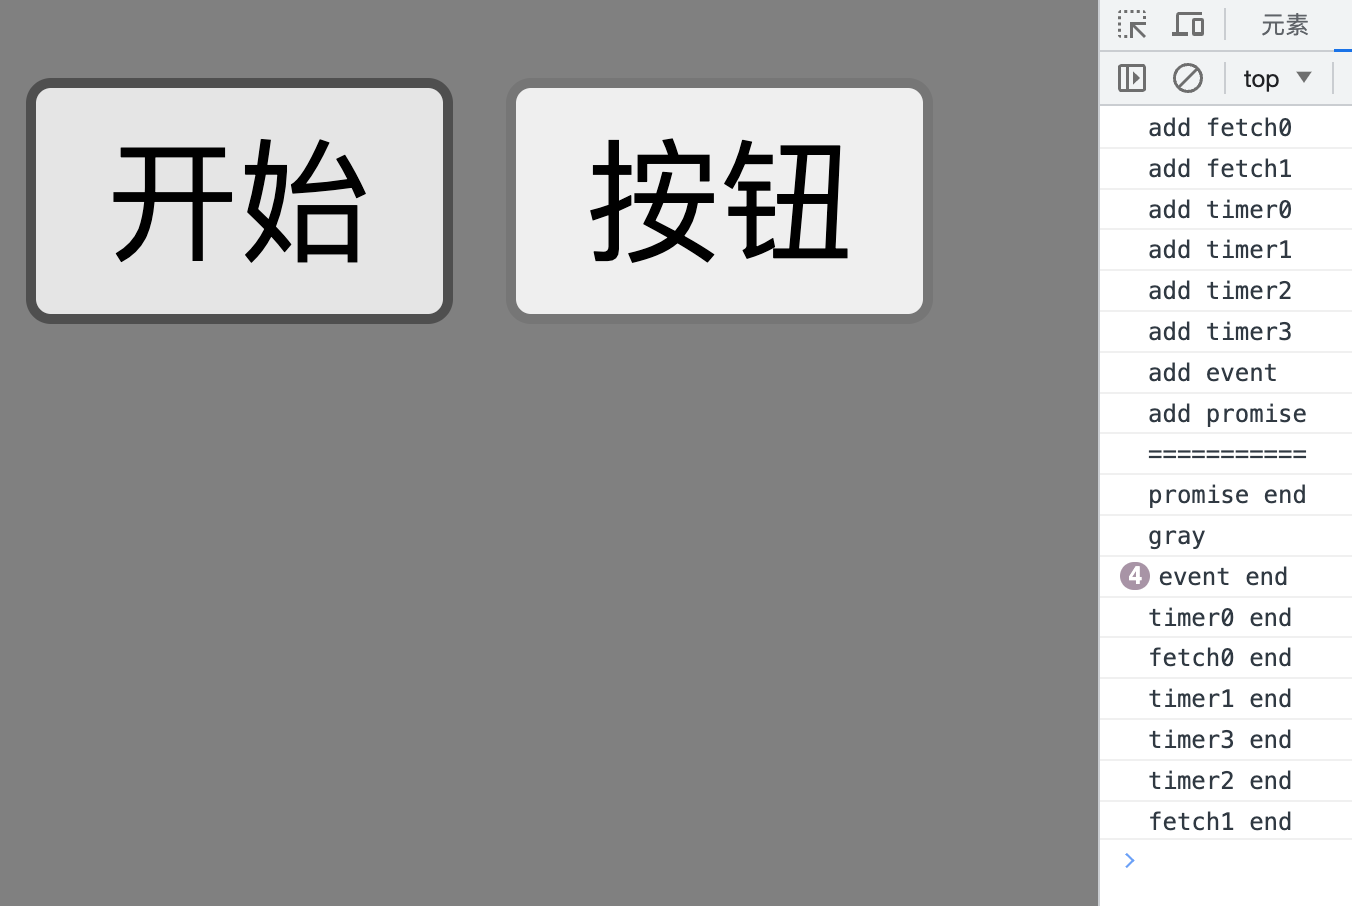
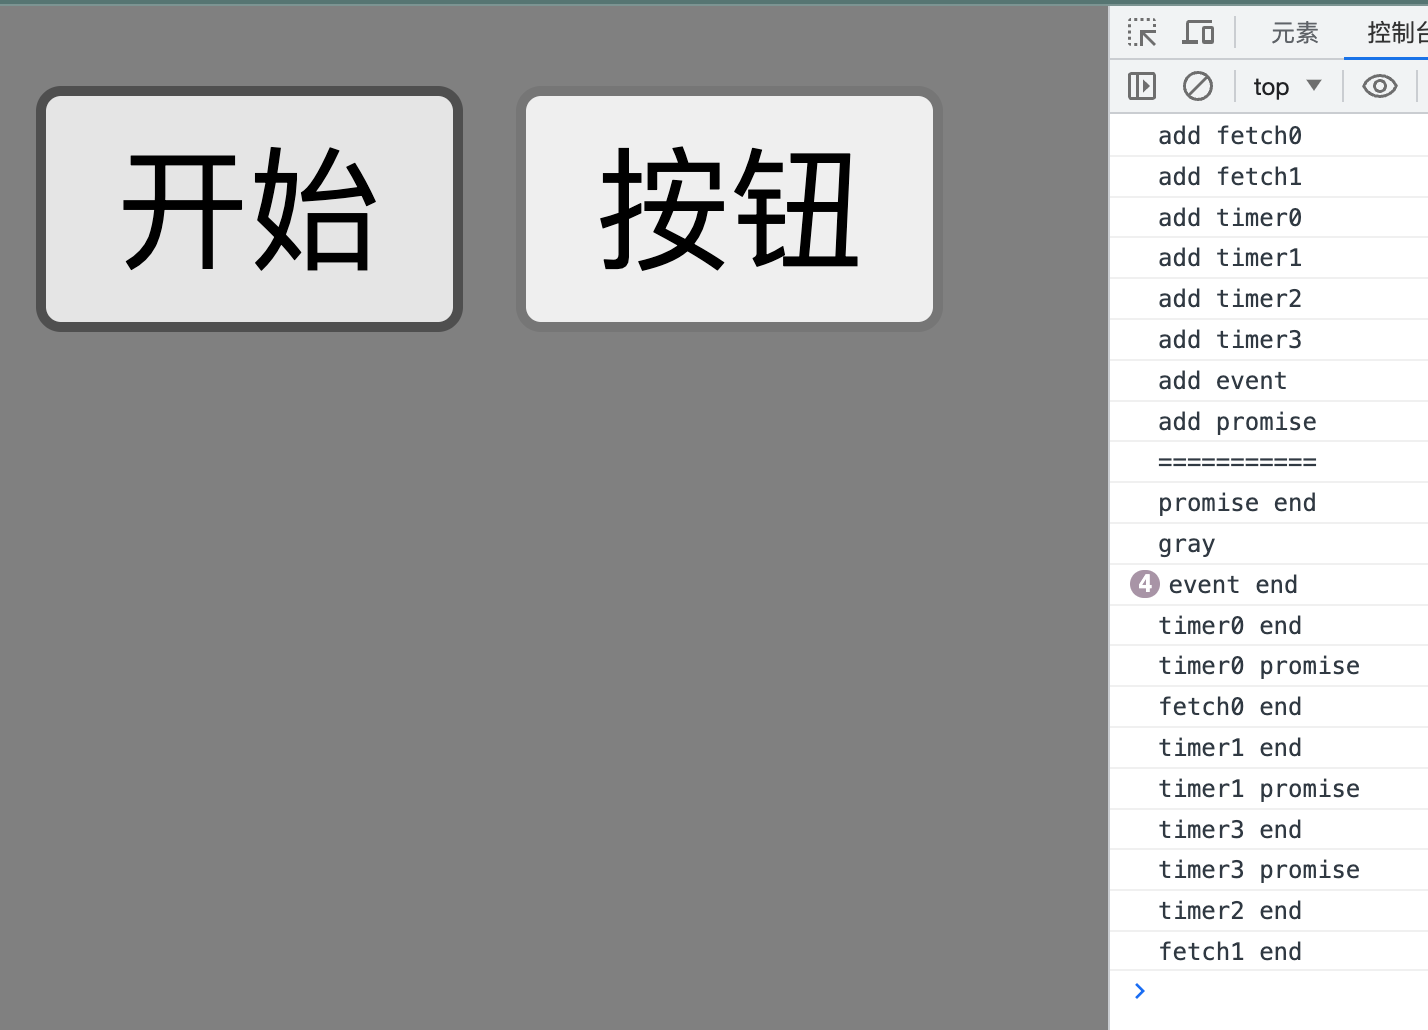
feat: 修改队列优先级代码

Changed region(s): [[0.0, 0.0, 1.0, 1.0], [0.0, 0.0927, 0.6834, 0.3709]]

diff --git a/src/practice/queuePriority/index.html b/src/practice/queuePriority/index.html
@@ -21,7 +21,7 @@
         Promise.resolve().then(function () {
           console.log("promise end")
           console.log(document.body.style.backgroundColor)
-          alert("promise end")
+          // alert("promise end")
         })
       }
 
@@ -30,7 +30,10 @@
         console.log("add timer0")
         setTimeout(function () {
           console.log("timer0 end")
-          alert("timer0 end")
+          Promise.resolve().then(function () {
+            console.log("timer0 promise")
+          })
+          // alert("timer0 end")
         }, 0)
       }
 
@@ -39,7 +42,10 @@
         console.log("add timer1")
         setTimeout(function () {
           console.log("timer1 end")
-          alert("timer1 end")
+          Promise.resolve().then(function () {
+            console.log("timer1 promise")
+          })
+          // alert("timer1 end")
         }, 1)
       }
 
@@ -48,7 +54,7 @@
         console.log("add timer2")
         setTimeout(function () {
           console.log("timer2 end")
-          alert("timer2 end")
+          // alert("timer2 end")
         }, 2900)
       }
 
@@ -57,7 +63,10 @@
         console.log("add timer3")
         setTimeout(function () {
           console.log("timer3 end")
-          alert("timer3 end")
+          Promise.resolve().then(function () {
+            console.log("timer3 promise")
+          })
+          // alert("timer3 end")
         }, 500)
       }
 
@@ -66,7 +75,7 @@
         console.log("add event")
         aaa.onclick = function () {
           console.log("event end")
-          alert("event end")
+          // alert("event end")
         }
       }
 
@@ -75,7 +84,7 @@
         console.log("add fetch0")
         fetch("./a.json").then(function (res) {
           console.log("fetch0 end")
-          alert("fetch0 end")
+          // alert("fetch0 end")
         })
       }
 
@@ -84,7 +93,7 @@
         console.log("add fetch1")
         fetch("./a.json").then(function (res) {
           console.log("fetch1 end")
-          alert("fetch1 end")
+          // alert("fetch1 end")
         })
       }
 
